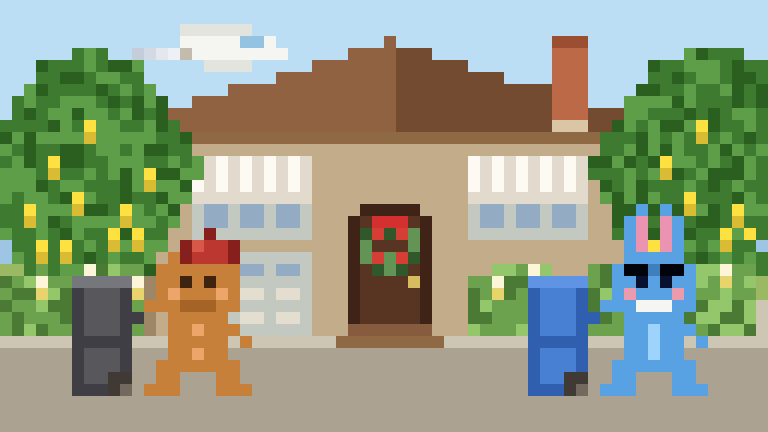
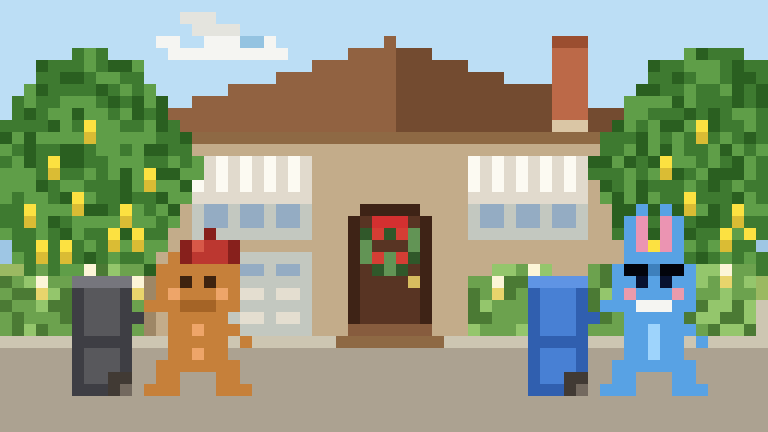
pixel_trash checkpoint: new plane design

Changed region(s): [[0.1562, 0.0301, 0.3438, 0.1806], [0.3125, 0.0602, 0.3438, 0.0903]]

diff --git a/pixel_trash.py b/pixel_trash.py
@@ -226,29 +226,24 @@ draw_lemon_tree(60, 27, max_left=None, max_right=63)
 # 上层柠檬树（靠内，后画，遮住底层）
 draw_lemon_tree(7, 27, max_left=None, max_right=None)
 draw_lemon_tree(58, 27, max_left=None, max_right=63)
-# ── 小私人飞机（屋顶左上方，x右移到树冠外）──
-PL_BODY  = (245, 245, 242)
-PL_WING  = (228, 228, 222)
-PL_WIN   = (148, 195, 225)
-PL_ENG   = (195, 188, 172)
-
-# 机身 y=4, x=17~23（大版，白色）
-PL_BODY = (245, 245, 242); PL_WING = (228, 228, 222); PL_WIN = (148, 195, 225); PL_ENG = (195, 188, 172)
-wrow(3, 15, 21, PL_BODY)
+# ── 小私人飞机 ──
+PL_BODY = (245, 245, 242); PL_WING = (228, 228, 222); PL_WIN = (148, 195, 225)
+# 机身
+wrow(3, 17, 21, PL_BODY)
 wrow(4, 16, 21, PL_BODY)
-sp(15, 4, PL_ENG)
 # 机头
 sp(22, 3, PL_BODY); sp(22, 4, PL_BODY); sp(23, 4, PL_BODY)
 # 机尾竖尾翼
-sp(15, 2, PL_WING); sp(16, 2, PL_WING)
-# 主翼
-wrow(2, 17, 20, PL_WING)
-wrow(5, 17, 20, PL_WING)
+sp(16, 2, PL_WING)
+# 上翼
+wrow(2, 16, 19, PL_WING)
+# 下翼
+wrow(1, 15, 17, PL_WING)
 # 窗
 sp(20, 3, PL_WIN); sp(21, 3, PL_WIN)
-# 尾气
-sp(13, 4, (228, 232, 238)); sp(12, 4, (212, 218, 228)); sp(11, 4, (198, 205, 218))
-sp(14, 4, (238, 240, 245))
+# 尾气（右移后：y=4 x=12~15，y=3 x=11~14 白色）
+wrow(4, 14, 15, PL_BODY)
+wrow(3, 13, 14, PL_BODY)
 
 
 # ── 灌木（全宽，门前断开）──
